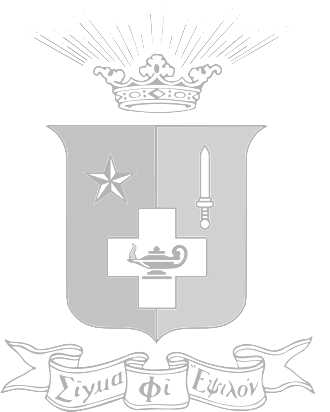
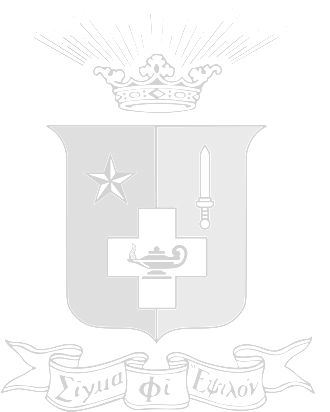
Adds crest to main landing page

diff --git a/app/assets/stylesheets/application.css.scss b/app/assets/stylesheets/application.css.scss
@@ -19,6 +19,7 @@ $navbar-height: 60px;
 @import "access";
 @import "users";
 @import "profiles";
+@import "main";
 
 html, body {
   height: 100%;
@@ -36,15 +37,15 @@ html, body {
 .navbar-brand-custom {
 	float: left;
 	padding: 5px 15px;
-  	font-size: 18px;
-  	line-height: 20px;
-  	height: 60px; 
+	font-size: 18px;
+	line-height: 20px;
+	height: 60px; 
   }
 
 .footer {
 	position: relative;
-  	margin-top: -150px; /* negative value of footer height */
-  	height: 150px;
-  	clear:both;
-  	padding-top:20px; 
+	margin-top: -150px; /* negative value of footer height */
+	height: 150px;
+	clear:both;
+	padding-top:20px; 
   }

diff --git a/app/assets/stylesheets/main.css b/app/assets/stylesheets/main.css
@@ -2,3 +2,16 @@
   Place all the styles related to the matching controller here.
   They will automatically be included in application.css.
 */
+
+.main-text {
+	padding-top: 15px;
+}
+
+.crest-watermark {
+ 	background-image: url('crest-transparent.png');
+ 	background-repeat: no-repeat;
+ 	background-position: right bottom;
+ 	position: absolute;
+ 	height: 80%;
+ 	width: 80%;
+  }

diff --git a/app/assets/stylesheets/access.css b/app/assets/stylesheets/access.css
@@ -45,7 +45,7 @@
   border-radius: 15px;
 }
 
-.crest {
+.gu-logo {
   display: block;
   margin: 0 auto;
   padding: 10px 5px;
